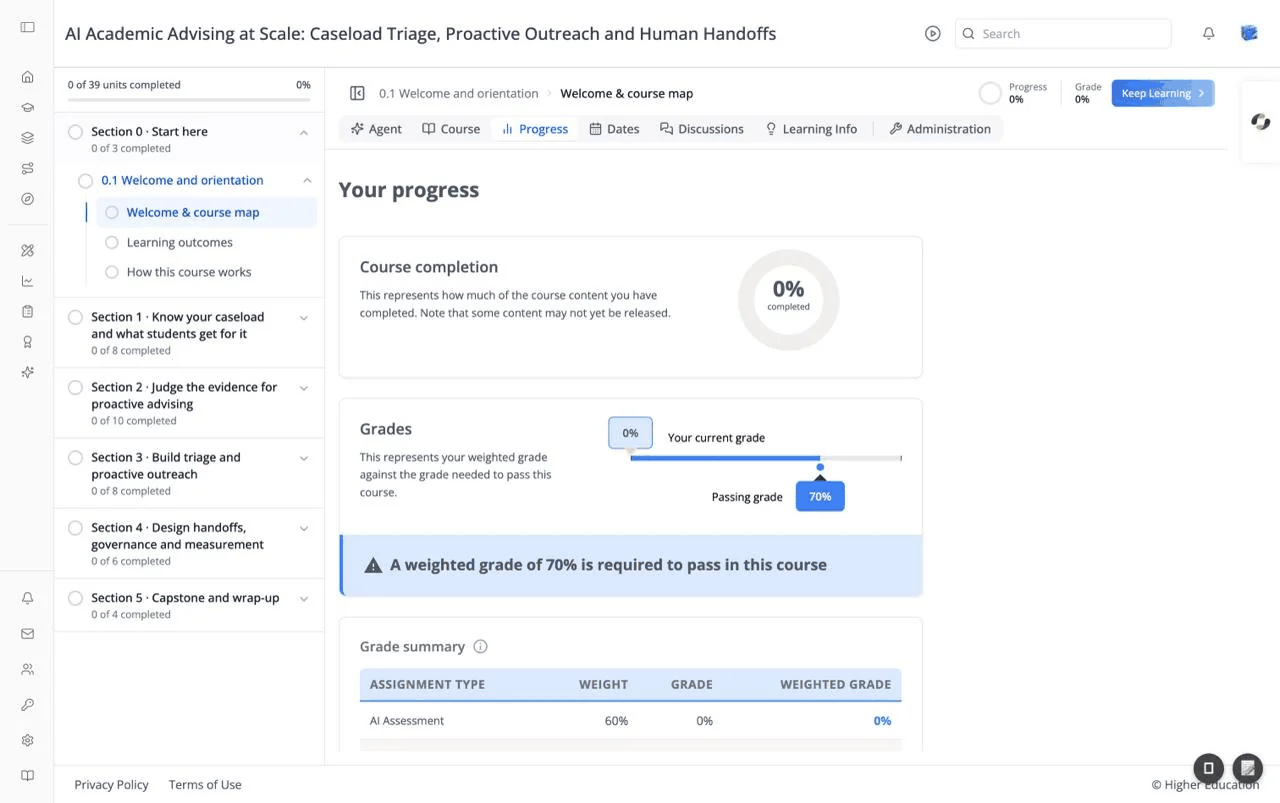
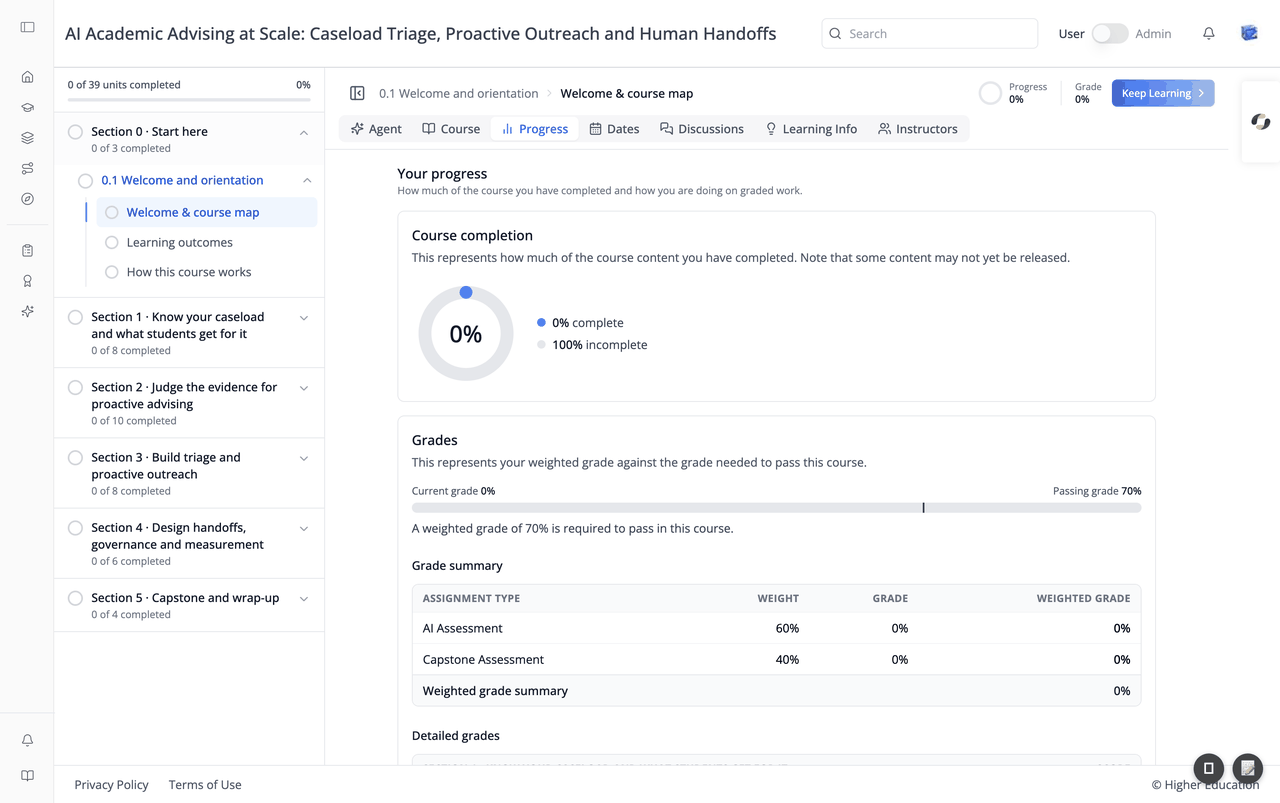
feat: user/admin switch + help center + course content progress, dates, discussions new ui update

diff --git a/adapters/codex/iblai-vibe-profile.md b/adapters/codex/iblai-vibe-profile.md
@@ -333,14 +333,17 @@ The generated dropdown component. Import from `@iblai/iblai-js/web-containers/ne
 | `currentTenant` | `Tenant?` | Full active-tenant object (from `current_tenant`) — labels the organization switcher |
 | `userTenants` | `Tenant[]` | **Required for the organization switcher** -- the full `tenants` list from localStorage |
 | `userIsAdmin` | `boolean` | Shows admin badge + gates the organization switcher |
-| `userIsStudent` | `boolean?` | Non-admin flag (`!isAdmin`) |
+| `userIsStudent` | `boolean?` | `true` when the viewer sees the member view — `!isAdmin`, or `!adminMode` when you have a User/Admin switch. Labels the dropdown's switch row "User" or "Admin" |
 | `enableGravatarOnProfilePic` | `boolean?` | Gravatar fallback when the user has no uploaded image (default `true`) |
 | `showProfileTab` | `boolean` | Show profile link |
 | `showAccountTab` | `boolean` | Show the dedicated "Account" item (keep `false` — account lives on `/account`) |
 | `showTenantSwitcher` | `boolean` | Show organization switcher (needs `userTenants` + `currentTenant`); gate on `userIsAdmin` |
 | `showLogoutButton` | `boolean` | Show logout button |
-| `showHelpLink` | `boolean` | Show help link |
-| `showLearnerModeSwitch` | `boolean?` | Show learner/instructor mode toggle (admins) |
+| `showHelpLink` | `boolean` | Show the **Help** item (opens the help URL in a new tab). Renders only once `metadataLoaded` is `true`, and not when `metadata.show_help === false` or no URL resolves |
+| `helpCenterUrl` | `string?` | Fallback help URL, used when the org metadata has neither `support_url` nor `help_center_url` |
+| `onHelpClick` | `(url: string) => void` | Called with the resolved URL when **Help** is clicked |
+| `showLearnerModeSwitch` | `boolean?` | Show the User/Admin switch row. Also needs `userIsAdmin` and `LearnerModeSwitchComponent`; never shown on the `main` org. The row is `xl:hidden` — put the inline switch in the navbar from `xl` up |
+| `LearnerModeSwitchComponent` | `ComponentType?` | The control the row renders — a bare `<Switch>` bound to `useAdminMode()` (`/iblai-vibe-admin`). Not `AdminModeSwitch`: the row already prints the "User"/"Admin" label |
 | `currentSPA` | `string?` | Current app id (e.g. `"mentor"`) — used for conditional SDK rendering |
 | `currentPlatformBaseDomain` | `string?` | Base domain for custom-domain settings (`config.platformBaseDomain()`) |
 | `authURL` | `string` | Auth service URL |
@@ -350,8 +353,8 @@ The generated dropdown component. Import from `@iblai/iblai-js/web-containers/ne
 | `className` | `string?` | Additional CSS class |
 | `dropdownClassName` | `string?` | CSS class for dropdown panel |
 | `avatarSize` | `number?` | Avatar size in pixels |
-| `metadata` | `{ help_center_url?: string; show_help?: boolean }` | Platform metadata for help link |
-| `metadataLoaded` | `boolean?` | Whether metadata has finished loading |
+| `metadata` | `{ support_url?: string; help_center_url?: string; show_help?: boolean }` | Org metadata (`useTenantMetadata({ org }).metadata`). Help URL precedence: `support_url` → `help_center_url` → `helpCenterUrl` |
+| `metadataLoaded` | `boolean?` | Whether metadata has finished loading (`useTenantMetadata().metadataLoaded`); the Help item waits for it |
 | `enableMemoryTab` | `boolean?` | Show AI memory management tab |
 | `enableCatalogInvite` | `boolean?` | Enable catalog invite feature |
 | `enableRbac` | `boolean?` | Enable RBAC permission checks |

diff --git a/skills/users/iblai-vibe-profile/SKILL.md b/skills/users/iblai-vibe-profile/SKILL.md
@@ -339,14 +339,17 @@ The generated dropdown component. Import from `@iblai/iblai-js/web-containers/ne
 | `currentTenant` | `Tenant?` | Full active-tenant object (from `current_tenant`) — labels the organization switcher |
 | `userTenants` | `Tenant[]` | **Required for the organization switcher** -- the full `tenants` list from localStorage |
 | `userIsAdmin` | `boolean` | Shows admin badge + gates the organization switcher |
-| `userIsStudent` | `boolean?` | Non-admin flag (`!isAdmin`) |
+| `userIsStudent` | `boolean?` | `true` when the viewer sees the member view — `!isAdmin`, or `!adminMode` when you have a User/Admin switch. Labels the dropdown's switch row "User" or "Admin" |
 | `enableGravatarOnProfilePic` | `boolean?` | Gravatar fallback when the user has no uploaded image (default `true`) |
 | `showProfileTab` | `boolean` | Show profile link |
 | `showAccountTab` | `boolean` | Show the dedicated "Account" item (keep `false` — account lives on `/account`) |
 | `showTenantSwitcher` | `boolean` | Show organization switcher (needs `userTenants` + `currentTenant`); gate on `userIsAdmin` |
 | `showLogoutButton` | `boolean` | Show logout button |
-| `showHelpLink` | `boolean` | Show help link |
-| `showLearnerModeSwitch` | `boolean?` | Show learner/instructor mode toggle (admins) |
+| `showHelpLink` | `boolean` | Show the **Help** item (opens the help URL in a new tab). Renders only once `metadataLoaded` is `true`, and not when `metadata.show_help === false` or no URL resolves |
+| `helpCenterUrl` | `string?` | Fallback help URL, used when the org metadata has neither `support_url` nor `help_center_url` |
+| `onHelpClick` | `(url: string) => void` | Called with the resolved URL when **Help** is clicked |
+| `showLearnerModeSwitch` | `boolean?` | Show the User/Admin switch row. Also needs `userIsAdmin` and `LearnerModeSwitchComponent`; never shown on the `main` org. The row is `xl:hidden` — put the inline switch in the navbar from `xl` up |
+| `LearnerModeSwitchComponent` | `ComponentType?` | The control the row renders — a bare `<Switch>` bound to `useAdminMode()` (`/iblai-vibe-admin`). Not `AdminModeSwitch`: the row already prints the "User"/"Admin" label |
 | `currentSPA` | `string?` | Current app id (e.g. `"mentor"`) — used for conditional SDK rendering |
 | `currentPlatformBaseDomain` | `string?` | Base domain for custom-domain settings (`config.platformBaseDomain()`) |
 | `authURL` | `string` | Auth service URL |
@@ -356,8 +359,8 @@ The generated dropdown component. Import from `@iblai/iblai-js/web-containers/ne
 | `className` | `string?` | Additional CSS class |
 | `dropdownClassName` | `string?` | CSS class for dropdown panel |
 | `avatarSize` | `number?` | Avatar size in pixels |
-| `metadata` | `{ help_center_url?: string; show_help?: boolean }` | Platform metadata for help link |
-| `metadataLoaded` | `boolean?` | Whether metadata has finished loading |
+| `metadata` | `{ support_url?: string; help_center_url?: string; show_help?: boolean }` | Org metadata (`useTenantMetadata({ org }).metadata`). Help URL precedence: `support_url` → `help_center_url` → `helpCenterUrl` |
+| `metadataLoaded` | `boolean?` | Whether metadata has finished loading (`useTenantMetadata().metadataLoaded`); the Help item waits for it |
 | `enableMemoryTab` | `boolean?` | Show AI memory management tab |
 | `enableCatalogInvite` | `boolean?` | Enable catalog invite feature |
 | `enableRbac` | `boolean?` | Enable RBAC permission checks |

diff --git a/skills/content/iblai-vibe-course-access/SKILL.md b/skills/content/iblai-vibe-course-access/SKILL.md
@@ -10,9 +10,15 @@ metadata:
 # /iblai-vibe-course-access
 
 ![Course Content Page](https://raw.githubusercontent.com/iblai/vibe/refs/heads/main/skills/content/iblai-vibe-course-access/course-content-page.png)
-![Progress tab — course completion, grade vs passing grade, grade summary](https://raw.githubusercontent.com/iblai/vibe/refs/heads/main/skills/content/iblai-vibe-course-access/iblai-vibe-course-access-2-progress.png)
-![Dates tab — important dates timeline](https://raw.githubusercontent.com/iblai/vibe/refs/heads/main/skills/content/iblai-vibe-course-access/iblai-vibe-course-access-3-dates.png)
-![Discussion tab — My posts / All posts / Topics / Learners, Add a post](https://raw.githubusercontent.com/iblai/vibe/refs/heads/main/skills/content/iblai-vibe-course-access/iblai-vibe-course-access-4-discussion.png)
+![Progress tab — completion donut with complete/incomplete breakdown, current vs passing grade bar, grade summary table](https://raw.githubusercontent.com/iblai/vibe/refs/heads/main/skills/content/iblai-vibe-course-access/iblai-vibe-course-access-2-progress.png)
+![Dates tab — Important dates timeline with a Today marker](https://raw.githubusercontent.com/iblai/vibe/refs/heads/main/skills/content/iblai-vibe-course-access/iblai-vibe-course-access-3-dates.png)
+![Discussions tab — All posts / My posts / Topics / Learners menu, search, type/status/sort filters, Add a post](https://raw.githubusercontent.com/iblai/vibe/refs/heads/main/skills/content/iblai-vibe-course-access/iblai-vibe-course-access-4-discussion.png)
+
+> The Progress, Dates, and Discussions captures are from the ibl.ai Agentic
+> LMS, which renders those three tabs natively against the edX course-home
+> and discussion APIs. `CourseContentTabPage` in the SDK still renders them
+> through the learning MFE iframe, so your app shows the MFE's version of
+> each tab.
 
 Add a full edX course-content experience -- hierarchical course outline
 sidebar, collapsible modules/lessons/sublessons with progress indicators,

diff --git a/adapters/codex/iblai-vibe-course-access.md b/adapters/codex/iblai-vibe-course-access.md
@@ -5,9 +5,15 @@
 # /iblai-vibe-course-access
 
 ![Course Content Page](https://raw.githubusercontent.com/iblai/vibe/refs/heads/main/skills/content/iblai-vibe-course-access/course-content-page.png)
-![Progress tab — course completion, grade vs passing grade, grade summary](https://raw.githubusercontent.com/iblai/vibe/refs/heads/main/skills/content/iblai-vibe-course-access/iblai-vibe-course-access-2-progress.png)
-![Dates tab — important dates timeline](https://raw.githubusercontent.com/iblai/vibe/refs/heads/main/skills/content/iblai-vibe-course-access/iblai-vibe-course-access-3-dates.png)
-![Discussion tab — My posts / All posts / Topics / Learners, Add a post](https://raw.githubusercontent.com/iblai/vibe/refs/heads/main/skills/content/iblai-vibe-course-access/iblai-vibe-course-access-4-discussion.png)
+![Progress tab — completion donut with complete/incomplete breakdown, current vs passing grade bar, grade summary table](https://raw.githubusercontent.com/iblai/vibe/refs/heads/main/skills/content/iblai-vibe-course-access/iblai-vibe-course-access-2-progress.png)
+![Dates tab — Important dates timeline with a Today marker](https://raw.githubusercontent.com/iblai/vibe/refs/heads/main/skills/content/iblai-vibe-course-access/iblai-vibe-course-access-3-dates.png)
+![Discussions tab — All posts / My posts / Topics / Learners menu, search, type/status/sort filters, Add a post](https://raw.githubusercontent.com/iblai/vibe/refs/heads/main/skills/content/iblai-vibe-course-access/iblai-vibe-course-access-4-discussion.png)
+
+> The Progress, Dates, and Discussions captures are from the ibl.ai Agentic
+> LMS, which renders those three tabs natively against the edX course-home
+> and discussion APIs. `CourseContentTabPage` in the SDK still renders them
+> through the learning MFE iframe, so your app shows the MFE's version of
+> each tab.
 
 Add a full edX course-content experience -- hierarchical course outline
 sidebar, collapsible modules/lessons/sublessons with progress indicators,
